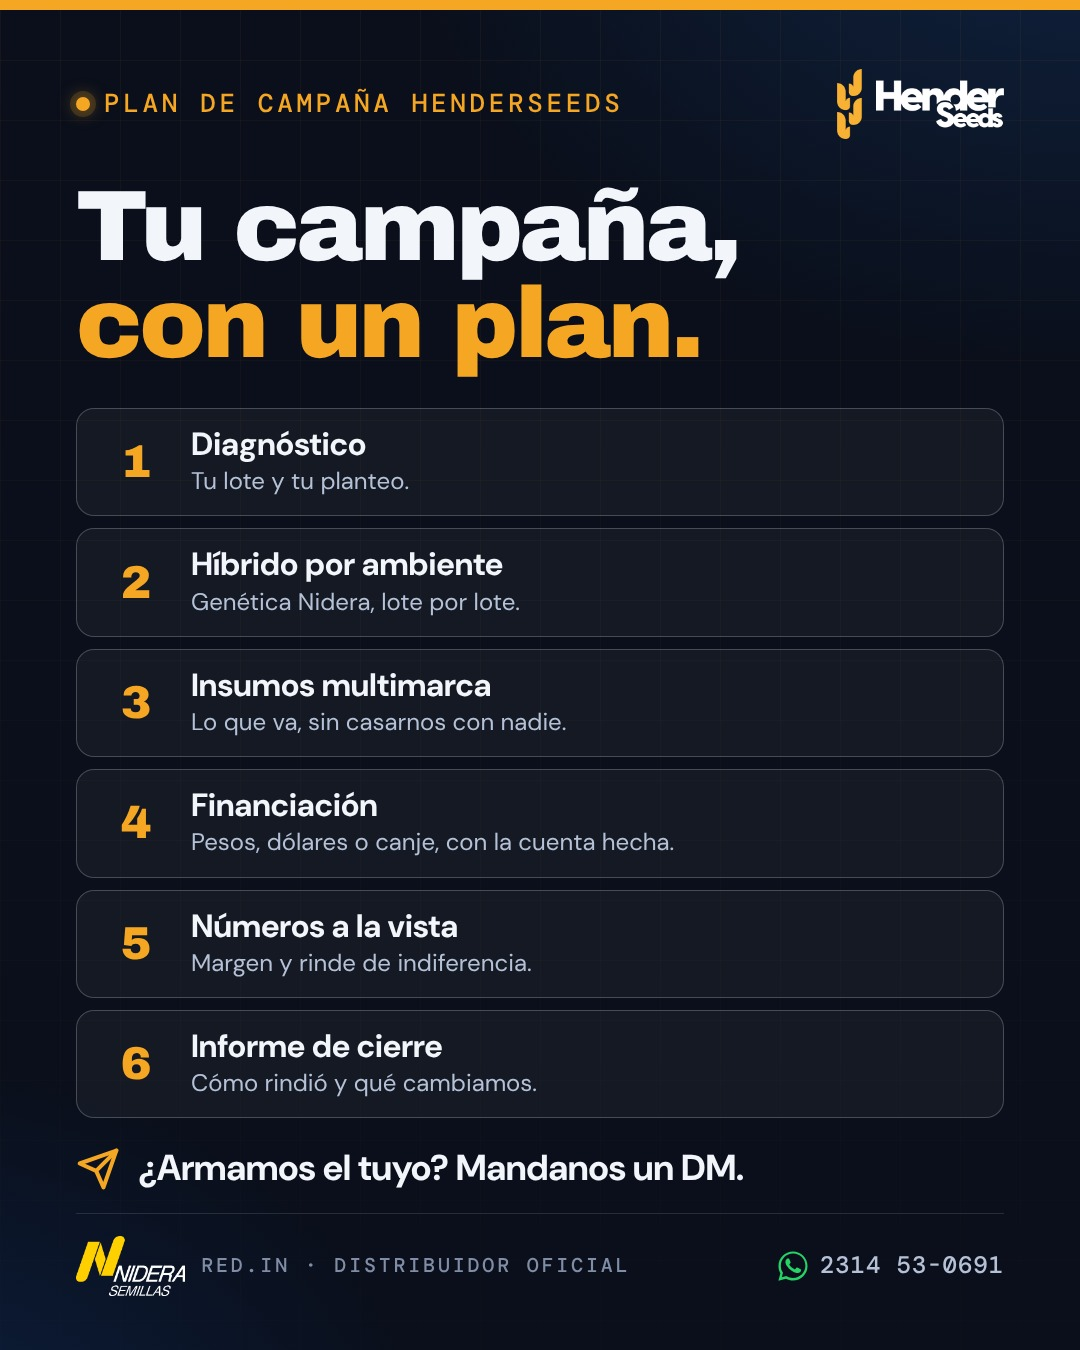
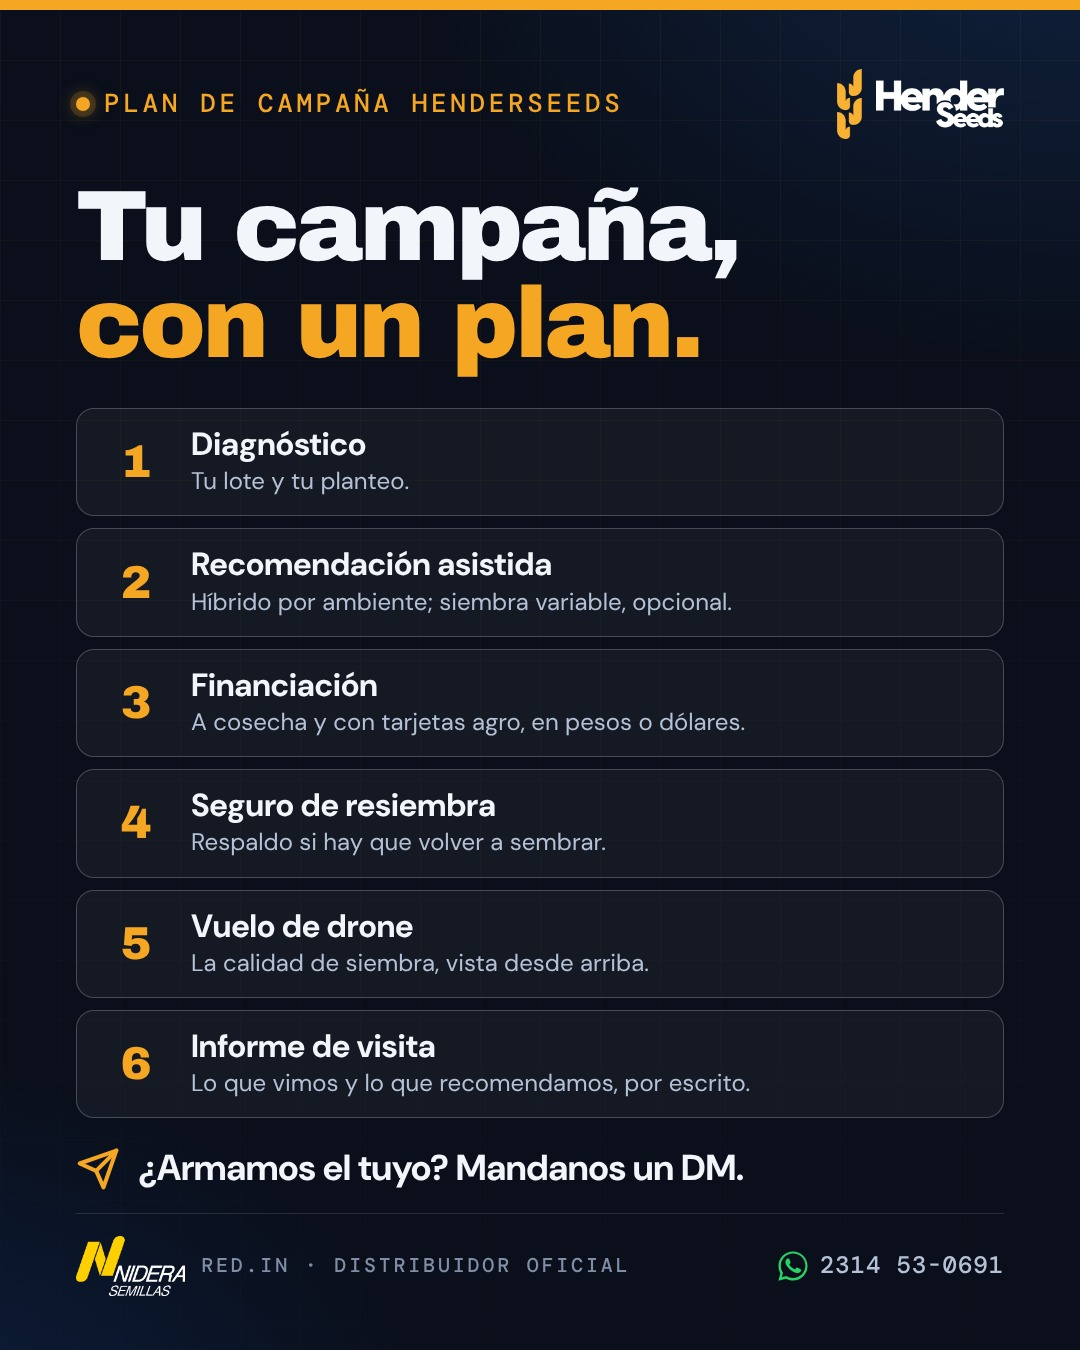
Oferta definida por Alvaro: los seis pasos del Plan de Campaña
- Pieza 'Tu campaña, con un plan' con los pasos reales: diagnóstico,
  recomendación asistida (siembra variable opcional), financiación a
  cosecha y tarjetas agro, seguro de resiembra, vuelo de drone e
  informe de visita.
- Estrategia, guía y plan al día; la financiación va en genérico en lo
  público y el plazo exacto solo en privado.
- El drone aparece solo como paso de la oferta.

Claude-Session: https://claude.ai/code/session_018fFC53JXFQtk8YpQAtNgUE

diff --git a/docs/estrategia/index.html b/docs/estrategia/index.html
@@ -57,7 +57,7 @@
     <li><b class="k">Dónde estamos</b><span>El negocio crece por relación y servicio, aun en campañas malas. El marketing está parado desde junio y nunca se midió.</span></li>
     <li><b class="k">A dónde vamos</b><span>Crecer en la 27/28 en hectáreas y en clientes sin perder a ninguno de los actuales. Las metas se ponen el 02/11, con los números de la 25/26.</span></li>
     <li><b class="k">A quién</b><span>Primero los clientes actuales; después, los prospectos de la zona con nombre y apellido; y los que recomiendan (asesores y contratistas).</span></li>
-    <li><b class="k">Qué ofrecemos</b><span>El Plan de Campaña HenderSeeds: seis pasos, del diagnóstico del lote al informe de cierre.</span></li>
+    <li><b class="k">Qué ofrecemos</b><span>El Plan de Campaña HenderSeeds: seis pasos, del diagnóstico del lote al informe de visita.</span></li>
     <li><b class="k">Cómo llegamos</b><span>Venta directa planificada (el motor) y una marca digital chica pero constante (el amplificador).</span></li>
     <li><b class="k">Cómo lo sostenemos</b><span>Alvaro publica y Santi revisa; un tablero por mes; la pauta, concentrada en la precampaña.</span></li>
   </ul>
@@ -144,7 +144,7 @@
   <div class="seg">
     <div class="card"><div class="ct"><small>1 · El más importante</small>Clientes actuales</div>
       <div class="row"><span class="k">Objetivo</span><span class="v">Que vuelvan todos, que compren más líneas y que nos recomienden.</span></div>
-      <div class="row"><span class="k">Cómo</span><span class="v">Contacto uno a uno planificado, informe de cierre en la cosecha, Estados de WhatsApp y pedido de referidos.</span></div>
+      <div class="row"><span class="k">Cómo</span><span class="v">Contacto uno a uno planificado, informe de visita, Estados de WhatsApp y pedido de referidos.</span></div>
     </div>
     <div class="card"><div class="ct"><small>2 · El crecimiento</small>Prospectos de la zona</div>
       <div class="row"><span class="k">Objetivo</span><span class="v">Una reunión y una cotización en la precampaña 27/28.</span></div>
@@ -180,15 +180,16 @@
     <div class="pillar"><b>Respuesta y cercanía</b><span>Cotización en menos de 24 horas y un solo interlocutor durante toda la campaña.</span></div>
   </div>
   <h3>La oferta: Plan de Campaña HenderSeeds</h3>
-  <p class="body">No es un producto nuevo: es lo que ya hacen, ordenado en pasos, con nombre y con un papel al final. Cada año cambia solo la campaña: "Plan de Campaña 27/28".</p>
+  <p class="body">Definida por Alvaro el 07/10. No es un producto nuevo: es lo que ya hacen, ordenado en pasos, con nombre y con un papel al final. Cada año cambia solo la campaña: "Plan de Campaña 27/28".</p>
   <ol class="steps">
     <li><b>Diagnóstico:</b> el lote, su historia y lo que complicó la última campaña.</li>
-    <li><b>Híbrido por ambiente:</b> genética Nidera elegida lote por lote.</li>
-    <li><b>Insumos multimarca:</b> lo que va en ese lote, sin atarnos a una marca.</li>
-    <li><b>Financiación:</b> pesos, dólares, canje o SGR, con la cuenta hecha.</li>
-    <li><b>Números a la vista:</b> margen y rinde de indiferencia antes de sembrar.</li>
-    <li><b>Informe de cierre:</b> después de la cosecha, una hoja por cliente con lo que se sembró, cómo rindió contra su rinde de indiferencia y qué cambiaríamos.</li>
+    <li><b>Recomendación asistida:</b> híbrido Nidera por ambiente, con prescripción de siembra variable incluida si el productor la quiere.</li>
+    <li><b>Financiación:</b> a cosecha y con tarjetas agro, en pesos o en dólares.</li>
+    <li><b>Seguro de resiembra:</b> respaldo si hay que volver a sembrar.</li>
+    <li><b>Vuelo de drone:</b> control de la calidad de siembra.</li>
+    <li><b>Informe de visita:</b> lo que vimos y lo que recomendamos, por escrito.</li>
   </ol>
+  <div class="card warn" style="margin-top:14px"><div class="ct"><small>Público y privado</small>Qué se dice en redes y qué se dice en la visita</div><p>En redes y en la web: los seis pasos en genérico ("financiación a cosecha", "seguro de resiembra"). Plazos, tasas, tarjetas y condiciones del seguro: solo en la visita, en la hoja impresa o por WhatsApp.</p></div>
 </section>
 
 <!-- 05 -->
@@ -207,11 +208,11 @@
       <dt>Se mide</dt><dd>Reuniones y cotizaciones enviadas.</dd></dl></div></div>
     <div class="stage"><div class="n">3</div><div><div class="tt">Nos elige<small>motor</small></div><dl>
       <dt>Qué</dt><dd>Cerrar.</dd>
-      <dt>Cómo</dt><dd>Plan de Campaña, cotización en menos de 24 horas y financiación a medida.</dd>
+      <dt>Cómo</dt><dd>Plan de Campaña, cotización en menos de 24 horas, financiación a cosecha y tarjetas agro.</dd>
       <dt>Se mide</dt><dd>Cotizaciones cerradas y hectáreas.</dd></dl></div></div>
     <div class="stage"><div class="n">4</div><div><div class="tt">Queda conforme<small>motor</small></div><dl>
       <dt>Qué</dt><dd>Cumplir lo que prometimos.</dd>
-      <dt>Cómo</dt><dd>Entrega a tiempo, seguimiento durante la campaña e informe de cierre en la cosecha.</dd>
+      <dt>Cómo</dt><dd>Entrega a tiempo, vuelo de drone para la calidad de siembra, seguro de resiembra e informe de visita.</dd>
       <dt>Se mide</dt><dd>Retención y líneas por cliente.</dd></dl></div></div>
     <div class="stage"><div class="n">5</div><div><div class="tt">Nos recomienda<small>motor</small></div><dl>
       <dt>Qué</dt><dd>Que otros lleguen por él.</dd>
@@ -254,7 +255,7 @@
   <div class="timeline">
     <div class="phase"><div class="when"><b>Siembra</b>oct – dic 2026</div><div class="what"><span class="goal">Cerrar el tardío y el girasol. Ordenar la casa.</span>Contacto uno a uno con los que siembran tardío (fuerte hasta el 05/12), girasol solo uno a uno porque queda poca semilla, ensayo sembrado y mapa de cuentas armado.<div class="inten l2"><i></i><i></i><i></i><i></i></div></div></div>
     <div class="phase"><div class="when"><b>Manejo</b>ene – feb 2027</div><div class="what"><span class="goal">Jornada a campo en el ensayo.</span>El evento del año para clientes, prospectos A y asesores. Insumos multimarca para el manejo del cultivo.<div class="inten l2"><i></i><i></i><i></i><i></i></div></div></div>
-    <div class="phase"><div class="when"><b>Cosecha</b>mar – abr 2027</div><div class="what"><span class="goal">Juntar las pruebas.</span>Resultados del ensayo y de clientes (con permiso), informe de cierre para cada cliente, referidos y reseñas.<div class="inten l3"><i></i><i></i><i></i><i></i></div></div></div>
+    <div class="phase"><div class="when"><b>Cosecha</b>mar – abr 2027</div><div class="what"><span class="goal">Juntar las pruebas.</span>Resultados del ensayo y de clientes (con permiso), referidos y reseñas.<div class="inten l3"><i></i><i></i><i></i><i></i></div></div></div>
     <div class="phase peak"><div class="when"><b>Precampaña 27/28</b>may – ago 2027</div><div class="what"><span class="goal">La campaña del año.</span>Lanzamiento con datos propios de la zona, charla técnica con Nidera, visita a toda la lista A y la pauta más fuerte. Las fechas las define Nidera.<div class="inten l4"><i></i><i></i><i></i><i></i></div></div></div>
     <div class="phase"><div class="when"><b>Cierre</b>sep 2027</div><div class="what"><span class="goal">Entregar bien y medir.</span>Entregas, postventa, una pregunta corta a cada cliente sobre cómo lo atendimos y el balance con el tablero.<div class="inten l1"><i></i><i></i><i></i><i></i></div></div></div>
   </div>
@@ -339,7 +340,8 @@
   <ul class="clean x">
     <li>Nunca precios, porcentajes de descuento ni condiciones comerciales: ni en redes, ni en la web, ni en el repo (que es público).</li>
     <li>En maíz no mostramos números de ensayo: mostramos el híbrido y su tecnología (regla del equipo, 25/09).</li>
-    <li>No se comunica lo que no creemos (por ejemplo, el drone después de la siembra).</li>
+    <li>No se comunica lo que no creemos. El drone aparece solo como un paso del Plan de Campaña, nunca como pieza suelta.</li>
+    <li>La financiación, en público, solo en genérico: plazos, tasas y condiciones van en privado.</li>
     <li>Nadie en cámara, por ahora: manos, máquinas, bolsas, lotes y texto.</li>
     <li>Ningún dato sin fuente: marbete oficial Nidera, ensayo propio o dato de red.</li>
   </ul>
@@ -380,7 +382,7 @@
     <div class="card ok"><div class="ct">Quién publica: Alvaro, y Santi revisa antes (07/10).</div></div>
     <div class="card ok"><div class="ct">Archivo con precios: borrado de las 8 ramas del repo (07/10).</div><p>Sigue existiendo en el historial de commits viejos. Borrarlo de ahí implica reescribir todas las ramas: se puede hacer, pero es una operación delicada.</p></div>
     <div class="card ok"><div class="ct">GitHub: no se paga el plan Pro; el repo sigue público (07/10).</div></div>
-    <div class="card"><div class="ct">Nombre de la oferta: "Plan de Campaña HenderSeeds"</div><p>Recomendado, en vez de "Campaña 26/27": ese nombre lo usan todos (Nidera, la competencia) y no es de nadie; "Plan de Campaña" dice lo que el productor recibe y sirve todos los años. Falta tu confirmación, y la de los seis pasos (sobre todo el informe de cierre).</p></div>
+    <div class="card ok"><div class="ct">Oferta: los seis pasos del Plan de Campaña, definidos por Alvaro (07/10).</div><p>Nombre recomendado: "Plan de Campaña HenderSeeds", porque "Campaña 26/27" lo usan todos y no es de nadie. Si preferís otro, se cambia en todas las piezas.</p></div>
     <div class="card"><div class="ct">Las metas de la 27/28</div><p>En la reunión del 02/11, con los números de la 25/26.</p></div>
     <div class="card"><div class="ct">¿Zonas nuevas en la 27/28?</div><p>Sí o no, y cuáles. Cambia la pauta y la lista de prospectos.</p></div>
     <div class="card"><div class="ct">Ordenar el repo en una sola rama</div><p>Integrar las ramas en una sola y publicar el sitio solo desde ahí. Necesito tu autorización (ver <a href="repo.html">cómo está armado</a>).</p></div>

diff --git a/docs/estrategia/plan.html b/docs/estrategia/plan.html
@@ -160,7 +160,7 @@
     <div class="body">
       <div class="grp gp">Publicación</div>
       <ul class="chk">
-        <li><input type="checkbox" data-k="s6p"><span><b>lun 09/11, 8–10 h · "Tu campaña, con un plan"</b> (Plan de Campaña, nueva). <a href="#p5">Ver</a><small>Publicarla solo si confirmaste los 6 pasos, sobre todo el informe de cierre. Opcional: mar 10/11, Día de la Tradición en historia (<a href="#e2">ver</a>).</small></span></li>
+        <li><input type="checkbox" data-k="s6p"><span><b>lun 09/11, 8–10 h · "Tu campaña, con un plan"</b> (Plan de Campaña, nueva). <a href="#p5">Ver</a><small>Los seis pasos ya están confirmados. Opcional: mar 10/11, Día de la Tradición en historia (<a href="#e2">ver</a>).</small></span></li>
       </ul>
       <div class="grp">Comercial</div>
       <ul class="chk">
@@ -226,7 +226,7 @@
 <section id="publicaciones">
   <div class="sec-k">02 · Publicaciones</div>
   <h2>Ocho piezas: seis de septiembre y dos nuevas.</h2>
-  <p class="body">Cada una trae el archivo para bajar y el texto para copiar. Sin precios, sin drone y sin caras.</p>
+  <p class="body">Cada una trae el archivo para bajar y el texto para copiar. Sin precios y sin caras; el drone aparece solo dentro del Plan de Campaña.</p>
   <div class="card warn" style="margin-top:14px"><div class="ct"><small>Regla del equipo (25/09)</small>En maíz no mostramos números de ensayo</div><p>Mostramos el híbrido y su tecnología. Por eso quedaron afuera el ranking del tardío, el carrusel del tardío y la placa del NS 7765, y sumé dos piezas nuevas sin números. En girasol la regla no aplica.</p></div>
 
   <div class="card hl" id="checklist" style="margin-top:12px"><div class="ct"><small>Antes de cada publicación · 2 minutos</small>La checklist de Santi</div>
@@ -325,7 +325,7 @@ Recordá: con Clearfield, solo herbicidas identificados como CLEARFIELD®.
     <div>
       <div class="when">lun 09/11 · 8–10 h · placa · nueva</div>
       <div class="pt">Tu campaña, con un plan (Plan de Campaña)</div>
-      <div class="fmt">Pieza nueva: la oferta con nombre, en 6 pasos.</div><div class="fmt" style="color:var(--amber)">Publicar solo si confirmaste los 6 pasos, sobre todo el informe de cierre.</div>
+      <div class="fmt">Pieza nueva: la oferta con nombre, en 6 pasos.</div><div class="fmt" style="color:var(--amber)">Seis pasos definidos por Alvaro el 07/10. La financiación va en genérico; los plazos, solo en privado.</div>
       <div class="links"><a href="piezas/img/2026-W46-plan-de-campana-A-feed-1080x1350.jpg" download>Placa JPG</a><button class="copy" data-c="c5">Copiar texto</button></div>
     </div>
     <details class="cap"><summary>Ver texto</summary><pre class="txt" id="c5">Tu campaña, con un plan. 📋
@@ -333,11 +333,11 @@ Recordá: con Clearfield, solo herbicidas identificados como CLEARFIELD®.
 Así trabajamos cada campaña con los productores de Henderson, Daireaux y Bolívar:
 
 1. Diagnóstico de tu lote y tu planteo.
-2. Híbrido Nidera elegido por ambiente, lote por lote.
-3. Insumos multimarca: lo que va, sin casarnos con ninguna marca.
-4. Financiación en pesos, dólares o canje, con la cuenta hecha.
-5. Los números a la vista: margen y rinde de indiferencia antes de sembrar.
-6. Informe de cierre después de la cosecha: cómo rindió y qué cambiamos.
+2. Recomendación asistida: híbrido Nidera por ambiente y, si querés, siembra variable.
+3. Financiación a cosecha y tarjetas agro, en pesos o en dólares.
+4. Seguro de resiembra.
+5. Vuelo de drone para ver la calidad de siembra.
+6. Informe de visita: lo que vimos y lo que recomendamos, por escrito.
 
 Es el Plan de Campaña HenderSeeds.
 📩 ¿Armamos el tuyo? Mandanos un DM.
@@ -584,7 +584,7 @@ Henderson · Daireaux · Bolívar | RED.IN 👇</pre>
   <div class="timeline">
     <div class="phase"><div class="when"><b>Diciembre</b></div><div class="what">Invitaciones a la jornada a campo, saludo de fin de año uno a uno y fotos del ensayo (con el celular) para Estados.</div></div>
     <div class="phase"><div class="when"><b>Ene – feb</b></div><div class="what">La jornada a campo en el ensayo. Insumos multimarca para el manejo. Lista de prospectos A cerrada.</div></div>
-    <div class="phase"><div class="when"><b>Mar – abr</b></div><div class="what">Cosecha: resultados del ensayo y de clientes (con permiso) y el informe de cierre de campaña para cada cliente.</div></div>
+    <div class="phase"><div class="when"><b>Mar – abr</b></div><div class="what">Cosecha: resultados del ensayo y de clientes (con permiso), referidos y reseñas.</div></div>
     <div class="phase peak"><div class="when"><b>May – ago</b></div><div class="what">Precampaña 27/28: la campaña del año, con datos propios, charla técnica con Nidera, visitas a toda la lista A y la pauta más fuerte.</div></div>
   </div>
 </section>

diff --git a/docs/estrategia/piezas/2026-W46-plan-de-campana.html b/docs/estrategia/piezas/2026-W46-plan-de-campana.html
@@ -29,16 +29,16 @@ body { margin: 0; background: #05070d; display: flex; flex-direction: column; al
  "pilar": "Institucional / oferta",
  "semana": "2026-W46",
  "fecha": "lun 09/11 · 8–10 h",
- "porque": "Presenta la oferta con nombre: lo que ya hacen, ordenado en 6 pasos. Publicar solo cuando Alvaro confirme los 6 pasos (sobre todo el informe de cierre).",
+ "porque": "Presenta la oferta con nombre, con los 6 pasos que definió Alvaro el 07/10. La financiación va en genérico ('a cosecha'): plazos y condiciones solo en privado.",
  "pauta": "Opcional: sumarla a la campaña A (alcance) como segundo anuncio.",
- "caption": "Tu campaña, con un plan. 📋\n\nAsí trabajamos cada campaña con los productores de Henderson, Daireaux y Bolívar:\n\n1. Diagnóstico de tu lote y tu planteo.\n2. Híbrido Nidera elegido por ambiente, lote por lote.\n3. Insumos multimarca: lo que va, sin casarnos con ninguna marca.\n4. Financiación en pesos, dólares o canje, con la cuenta hecha.\n5. Los números a la vista: margen y rinde de indiferencia antes de sembrar.\n6. Informe de cierre después de la cosecha: cómo rindió y qué cambiamos.\n\nEs el Plan de Campaña HenderSeeds.\n📩 ¿Armamos el tuyo? Mandanos un DM.",
+ "caption": "Tu campaña, con un plan. 📋\n\nAsí trabajamos cada campaña con los productores de Henderson, Daireaux y Bolívar:\n\n1. Diagnóstico de tu lote y tu planteo.\n2. Recomendación asistida: híbrido Nidera por ambiente y, si querés, siembra variable.\n3. Financiación a cosecha y tarjetas agro, en pesos o en dólares.\n4. Seguro de resiembra.\n5. Vuelo de drone para ver la calidad de siembra.\n6. Informe de visita: lo que vimos y lo que recomendamos, por escrito.\n\nEs el Plan de Campaña HenderSeeds.\n📩 ¿Armamos el tuyo? Mandanos un DM.",
  "hashtags": "#Henderseeds #PlanDeCampaña #Nidera #REDIN #Henderson #Daireaux #Bolivar #Agro",
- "fuentes": "Servicios de HenderSeeds (henderseeds.com y Alvaro, 07/10/2026). Sin precios ni condiciones comerciales.",
+ "fuentes": "Oferta definida por Alvaro (07/10/2026). Sin precios ni condiciones comerciales específicas.",
  "opciones": [
   {
    "slide": "pc-A",
    "nombre": "Placa feed 4:5",
-   "nota": "Validar los 6 pasos antes de publicar."
+   "nota": "Pasos confirmados el 07/10."
   }
  ]
 }
@@ -53,11 +53,11 @@ body { margin: 0; background: #05070d; display: flex; flex-direction: column; al
     <h1 class="h1">Tu campaña, <span class="hl">con un plan.</span></h1>
     <div class="steps">
       <div class="st"><div class="i">1</div><div><div class="t">Diagnóstico</div><div class="d">Tu lote y tu planteo.</div></div></div>
-      <div class="st"><div class="i">2</div><div><div class="t">Híbrido por ambiente</div><div class="d">Genética Nidera, lote por lote.</div></div></div>
-      <div class="st"><div class="i">3</div><div><div class="t">Insumos multimarca</div><div class="d">Lo que va, sin casarnos con nadie.</div></div></div>
-      <div class="st"><div class="i">4</div><div><div class="t">Financiación</div><div class="d">Pesos, dólares o canje, con la cuenta hecha.</div></div></div>
-      <div class="st"><div class="i">5</div><div><div class="t">Números a la vista</div><div class="d">Margen y rinde de indiferencia.</div></div></div>
-      <div class="st"><div class="i">6</div><div><div class="t">Informe de cierre</div><div class="d">Cómo rindió y qué cambiamos.</div></div></div>
+      <div class="st"><div class="i">2</div><div><div class="t">Recomendación asistida</div><div class="d">Híbrido por ambiente; siembra variable, opcional.</div></div></div>
+      <div class="st"><div class="i">3</div><div><div class="t">Financiación</div><div class="d">A cosecha y con tarjetas agro, en pesos o dólares.</div></div></div>
+      <div class="st"><div class="i">4</div><div><div class="t">Seguro de resiembra</div><div class="d">Respaldo si hay que volver a sembrar.</div></div></div>
+      <div class="st"><div class="i">5</div><div><div class="t">Vuelo de drone</div><div class="d">La calidad de siembra, vista desde arriba.</div></div></div>
+      <div class="st"><div class="i">6</div><div><div class="t">Informe de visita</div><div class="d">Lo que vimos y lo que recomendamos, por escrito.</div></div></div>
     </div>
     <div class="grow"></div>
     <footer class="ft">

diff --git a/docs/estrategia/guia.html b/docs/estrategia/guia.html
@@ -103,8 +103,8 @@
     <div class="body">
       <p class="why">El vendedor necesita algo concreto para ofrecer en la visita, y el productor algo que comparar con la competencia.</p>
       <ul class="how">
-        <li>Confirmar el nombre (recomendado: "Plan de Campaña HenderSeeds") y los seis pasos, sobre todo el informe de cierre, que es un compromiso nuevo.</li>
-        <li>Te armo una hoja de una página para llevar a la visita y el modelo del informe de cierre.</li>
+        <li>Los seis pasos ya están definidos (07/10). Falta confirmar el nombre: recomendado "Plan de Campaña HenderSeeds".</li>
+        <li>La hoja de una página para la visita y el modelo del informe de visita ya están armados: imprimirlos y llevarlos en la camioneta. No se suben al repo porque la hoja tiene condiciones de financiación.</li>
         <li>Publicar la pieza "Tu campaña, con un plan" el lunes 09/11.</li>
       </ul>
       <div class="meta2"><div><b>Quién</b>Alvaro decide; yo armo los materiales</div><div><b>Tiempo</b>30 minutos de revisión</div><div class="done-when"><b>Listo cuando</b>la hoja está impresa en la camioneta.</div></div>

diff --git a/CLAUDE.md b/CLAUDE.md
@@ -11,14 +11,19 @@ https://henderseedsrepositorio.github.io/Campa-aMKT-26-27/estrategia/ . Manda so
 este archivo. Idea central: el motor es la venta directa planificada (mapa de cuentas en
 Salesforce, visitas con algo de valor, referidos, jornada a campo); la marca digital es chica pero
 constante (1 publicación por semana, Estados de WhatsApp, pauta solo por zona y concentrada en la
-precampaña). **No comunicar el drone** (Alvaro no le ve valor post-siembra). Nadie aparece en cámara.
+precampaña). El drone va solo dentro de la oferta (paso 5), nunca como pieza suelta. Nadie aparece en cámara.
 Tres páginas, en este orden: **estrategia** (`docs/estrategia/index.html`, v3: situación, objetivos,
 segmentos, oferta, recorrido del productor, canales, presupuesto, medición, roles, reglas, riesgos),
 **guía de 10 pasos** (`guia.html`) y **plan de 9 semanas** (`plan.html`: publicaciones listas,
 mensajes, pauta A + B, checklist de Santi). Planillas: `mapa-de-cuentas.csv`, `tablero-mensual.csv`.
 Piezas nuevas en `docs/estrategia/piezas/` (HTML + JPG; usan `../../assets/hs2627.css` del sitio).
 **Roles (07/10):** Alvaro publica; Santi revisa cada pieza antes con la checklist.
-**Oferta:** "Plan de Campaña HenderSeeds" (recomendado, falta confirmación de Alvaro).
+**Oferta (definida por Alvaro el 07/10): "Plan de Campaña HenderSeeds"**, seis pasos:
+1. Diagnóstico · 2. Recomendación asistida (híbrido por ambiente; siembra variable incluida, opcional) ·
+3. Financiación (en público solo "a cosecha y con tarjetas agro, en pesos o dólares"; el plazo
+exacto va solo en privado) · 4. Seguro de resiembra · 5. Vuelo de drone (calidad de siembra) ·
+6. Informe de visita. El drone aparece solo como paso 5 de la oferta, nunca como pieza suelta.
+La hoja de visita y el modelo de informe (PDF) NO se suben al repo: tienen condiciones comerciales.
 **Regla del equipo (25/09): en maíz NO se muestran números de ensayo** (kg/ha vs. promedio): se
 muestra el híbrido y su tecnología. En girasol sí.
 **Nunca subir información comercial interna al repo (es público).** El archivo con precios
